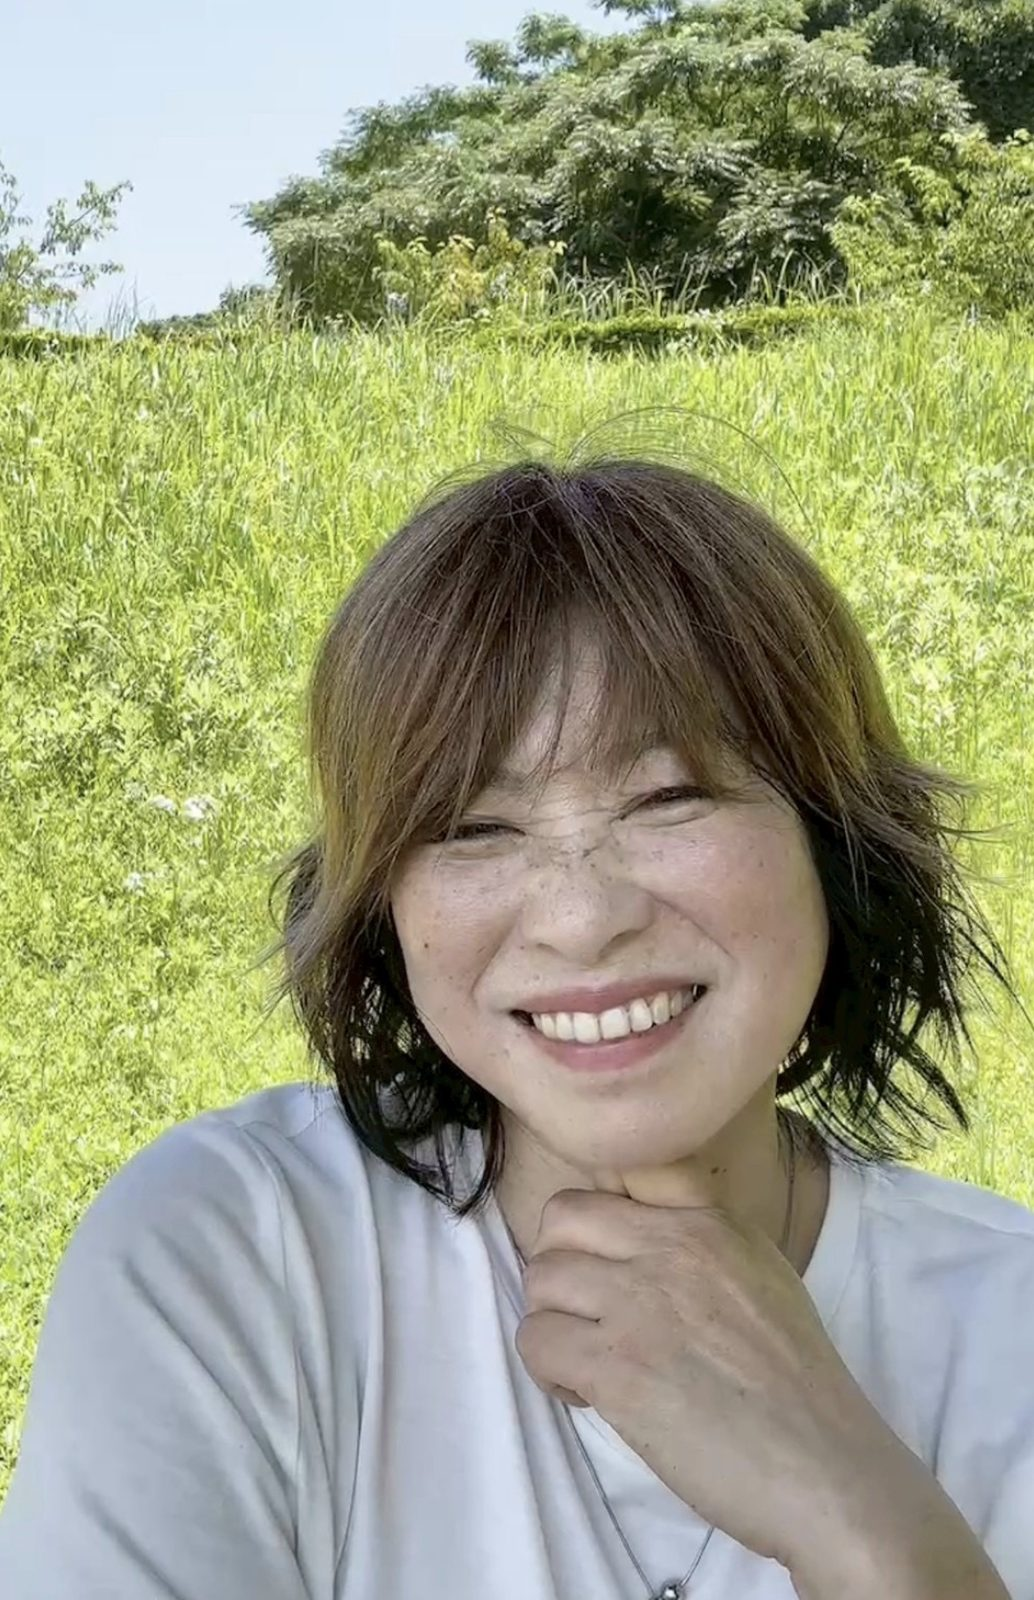
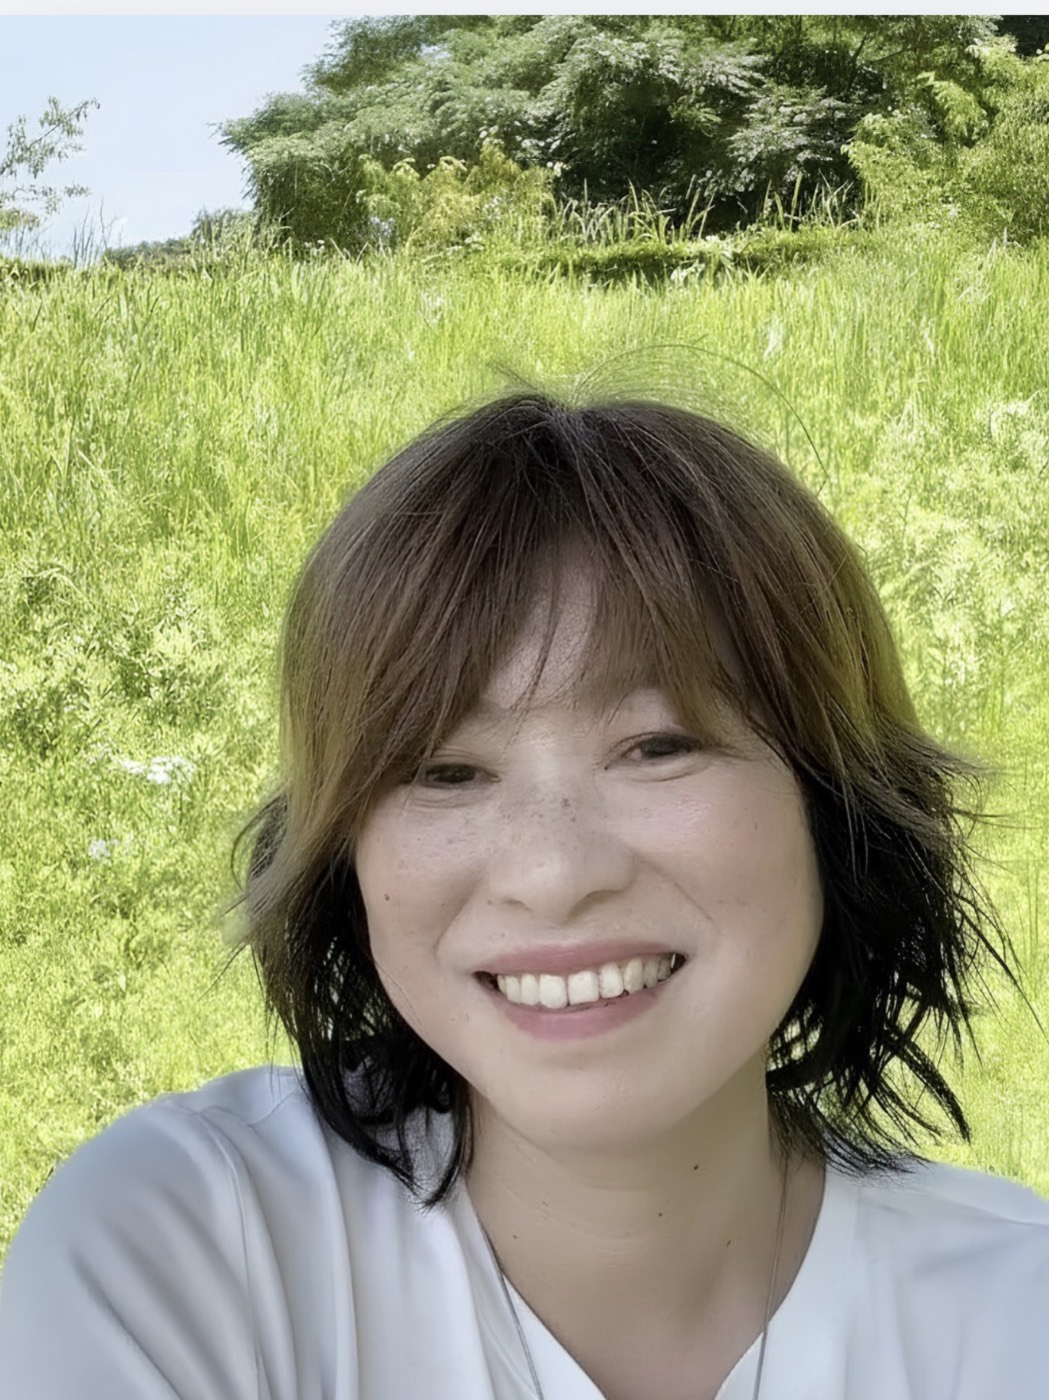
feat: クライアント指摘対応（写真差し替え・受講料表記統一・ヒーロー色調整）
- HPプロフィール写真を施術中(profile-atama)→講師風(profile-keiri)に変更
- よもぎヒーロー写真をぼやけた旧herbs→新しい明るくシャープなハーブ写真に差し替え
- HP笑顔写真を手削除版（Canva）に差し替え（顎の手が取ってつけたように見える件）
- ヒーローのスクリムを明るく（.18/.36/.46→.12/.24/.34）＝濃さ軽減
- よもぎ受講料の表記をあたまに統一（ラベル/円（税込）/説明文）。※金額priceNum・説明priceNoteは本番GAS上書きのため sync-gas-content.py apply が別途必要

diff --git a/index.html b/index.html
@@ -723,7 +723,7 @@ video.hero-slide{width:100%;height:100%;object-fit:contain;z-index:1;}
   #bgScene2{object-position:25% center;}
 }
 /* 世界観を見せるため画像はしっかり表示。文字可読性はソフトスクリムで確保（明るく柔らかい印象） */
-.hero-scrim{position:absolute;inset:0;z-index:1;background:linear-gradient(180deg,rgba(26,40,24,.18) 0%,rgba(26,40,24,.36) 45%,rgba(26,40,24,.46) 100%);}
+.hero-scrim{position:absolute;inset:0;z-index:1;background:linear-gradient(180deg,rgba(26,40,24,.12) 0%,rgba(26,40,24,.24) 45%,rgba(26,40,24,.34) 100%);}
 /* スライド連動キャプション（GSAPがスクロールに合わせて出し分け） */
 .hero-captions{position:absolute;left:0;right:0;bottom:clamp(4.5rem,12vh,7rem);z-index:2;height:1.8em;text-align:center;pointer-events:none;}
 .hero-caption{position:absolute;left:0;right:0;opacity:0;color:#fff;font-family:'Noto Serif JP',serif;font-size:clamp(.95rem,1.8vw,1.15rem);letter-spacing:.14em;text-shadow:0 1px 12px rgba(0,0,0,.55);}
@@ -961,7 +961,7 @@ video.hero-slide{width:100%;height:100%;object-fit:contain;z-index:1;}
       <div class="profile-deco"></div>
       <div class="profile-deco2"></div>
       <div class="profile-img-frame cf-img-wrap editable-wrap">
-        <img src="images/profile-atama.jpg" id="profileImg" alt="尾﨑幸子" style="display:block;">
+        <img src="images/profile-keiri.jpg" id="profileImg" alt="尾﨑幸子" style="display:block;">
         <div class="profile-img-placeholder img-ph" id="profileImgPlaceholder" onclick="openImgModal('profileImg','profileImgPlaceholder')" style="display:none;">
           <span>📷</span><span>写真を追加</span>
         </div>

diff --git a/yomogi.html b/yomogi.html
@@ -675,11 +675,10 @@ body.edit-mode .hero-slide:nth-child(1){opacity:1 !important;}
       <div>
         <div class="price-box">
           <div class="price-box-deco"></div>
-          <span class="price-lbl">受講料（税込）</span>
-          <p class="price-num" id="priceNum">¥33,000</p>
-          <p class="price-tax">（税込）</p>
+          <span class="price-lbl">受講料</span>
+          <p class="price-num" id="priceNum">33,000円（税込）</p>
           <div class="price-div"></div>
-          <p class="price-note-txt" id="priceNote">振込後のキャンセル・返金は不可。<br>日程変更は3回まで承ります。</p>
+          <p class="price-note-txt" id="priceNote">おかま直伝®で統一の受講料です。詳細はInstagram DM または公式LINEにてご案内します</p>
           <button class="price-edit-btn" onclick="openPriceEdit()">✏ 編集</button>
         </div>
       </div>
